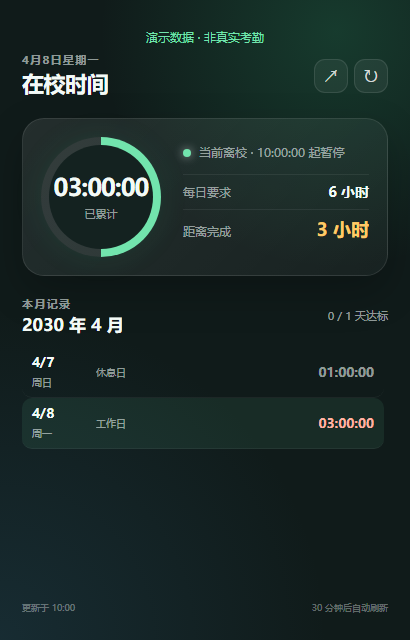
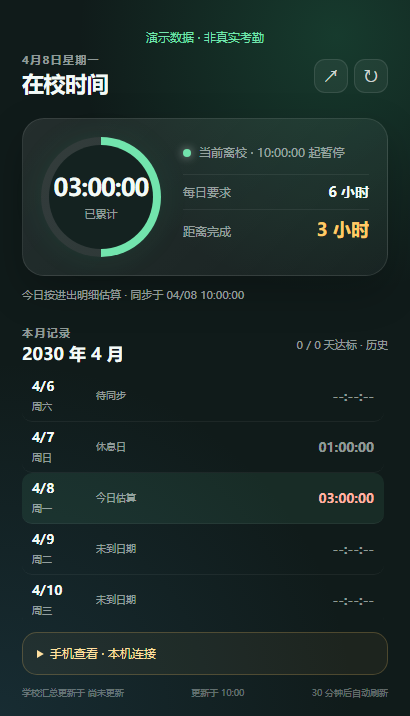
docs: clarify v1.2.0 extension and LAN installation
用下载表区分 Chrome 扩展与 Windows/macOS 伴随服务，将手机安装精简为四步。明确 manifest.json 所在目录、源码缺少运行时的原因，以及升级、换网络和防火墙排错步骤；更新虚构演示图，整理 CHANGELOG 并修正 WebKit 安装命令。

diff --git a/README.md b/README.md
@@ -6,58 +6,47 @@
 
 ![小组件演示，所有记录均为虚构数据](docs/demo.png)
 
-## 安装（无需编程环境）
+## 下载 1.2.0
 
-1. 下载版本对应的 `slai-attendance-widget-v版本号.zip`（公开版本见 [Releases](https://github.com/TianQijia/slai-attendance-widget/releases)）。
+在 [1.2.0 发布页](https://github.com/TianQijia/slai-attendance-widget/releases/tag/v1.2.0) 的 Assets 中选择下列文件：
+
+| 用途 | 下载文件 |
+| --- | --- |
+| 电脑 Chrome 小窗，所有用户都需要 | `slai-attendance-widget-v1.2.0.zip` |
+| 在手机查看，电脑是 Windows x64 时另加 | `slai-attendance-companion-v1.2.0-win-x64.zip` |
+| 在手机查看，电脑是 Apple Silicon Mac 时另加 | `slai-attendance-companion-v1.2.0-darwin-arm64.zip` |
+
+伴随服务包内置 Node.js，普通用户无需另装编程环境。`SHA256SUMS.txt` 用于校验下载文件；GitHub 自动生成的 Source code 包是源码，不是上表中的安装包。
+
+## 安装电脑扩展
+
+1. 下载上表中的 `slai-attendance-widget-v1.2.0.zip`。
 2. 解压到一个准备长期保留的文件夹，不要直接在压缩包里打开。
 3. 在 Chrome 地址栏输入 `chrome://extensions`，打开右上角“开发者模式”。
 4. 点击“加载已解压的扩展程序”，选择包含 `manifest.json` 的解压文件夹。
 5. 小窗出现后，如提示登录，点击“去登录”，使用**自己的学校账号**在学校页面登录。完成后会重新读取考勤。
 
+扩展 ZIP 解压后，`manifest.json` 就在解压文件夹的第一层。伴随服务包里的 `extension` 仅存放手机页面共用文件，不能导入 Chrome；选错时会提示“Manifest file is missing or unreadable”，请重新选择扩展 ZIP 的解压目录。
+
 关闭小窗后，点击 Chrome 工具栏的扩展菜单 → “SLAI 考勤小组件”即可重新打开。Chrome 启动时也会打开小窗。
 
-如果下载的是 GitHub 自动生成的 Source code 压缩包，请加载其中的 `extension` 文件夹。
+如果下载的是 GitHub 自动生成的 Source code 压缩包，请加载其中的 `extension` 文件夹。手机伴随服务请另下载上表中的安装包；源码里的 `companion/start.cmd` 不含配套运行时，不能直接双击启动。
 
-## 手机局域网查看（1.2.0）
+## 手机查看：四步连接
 
-手机与电脑连接同一可信 Wi-Fi。下载并解压对应的伴随服务 ZIP：macOS Apple Silicon 使用 `darwin-arm64`，Windows 64 位使用 `win-x64`；两种包均内置 Node.js 22.23.2，无需安装编程环境。扩展仍需按照上方步骤更新。
+手机与电脑需连接同一可信 Wi-Fi，电脑保持 Chrome 和伴随服务运行。1.2.0 提供局域网网页查看，不是安卓 APK；无需租服务器。
 
-1. 在解压目录的 `companion` 文件夹双击 `start.command`（Mac）或 `start.cmd`（Windows）。把软件放在长期保留的文件夹。
-2. 启动器打开本机连接信息页；把**本机配对码**粘贴到扩展小窗底部的“手机查看”，点击“启用并连接”，允许本机连接权限。
-3. 将信息页中的**手机查看链接**传到自己的手机并打开。链接包含独立查看令牌；本机配对码不要交给手机。展开页面底部“私人局域网查看”，可勾选“在此浏览器记住查看权限”，以后同一地址新开标签页也能查看。再次查看链接可运行 `connection-info` 工具。
-4. Windows 若阻止手机访问，把当前网络设为可信的“专用网络”；管理员运行 `allow-private-network.ps1`，仅放行本子网到内置 Node 的 TCP 32100。电脑若有多个局域网地址，启动器会要求选择手机所在网络。
+1. **下载并解压。** 先安装上面的扩展，再按电脑系统下载伴随服务 ZIP，解压到准备长期保留的文件夹。
+2. **启动电脑服务。** 打开其中的 `companion` 文件夹，Windows 双击 `start.cmd`，Mac 双击 `start.command`；连接信息页会自动打开。
+3. **配对电脑扩展。** 在扩展小窗底部展开“手机查看”，粘贴信息页中的“本机配对码”，点击“启用并连接”，允许本机连接权限。
+4. **手机打开链接。** 将信息页中的完整“手机查看链接”传到自己的手机浏览器并打开；可展开底部“私人局域网查看”，勾选“在此浏览器记住查看权限”。本机配对码仅用于电脑扩展。
 
-`stop` 停止服务；`enable-autostart` 设置下次登录后启动，`disable-autostart` 取消。自动启动不替你打开 Chrome。Mac 下载的启动脚本首次运行可能需要在系统设置中允许打开；不需要关闭系统安全保护。数据目录中 `connection.html` 可直接打开查看配对信息。
-
-### 网络检测（Mac 和 Windows）
-
-手机访问失败时，在电脑的 `companion` 文件夹双击 `diagnose.command`（Mac）或 `diagnose.cmd`（Windows）。**服务未启动时也能运行**，不需要安装 Node 或输入命令。检测会打开报告页，点击“复制脱敏报告”即可反馈；复制失败时可手动复制已选中的文本。换网络、重启服务或修正设置后，再运行一次检测获得新结果。
-
-- 共同检测：当前是否有私有局域网 IPv4、已选地址是否仍属于本机、本机查看接口、写入端口、电脑访问自己的局域网接口、扩展最近联系及今日完整快照更新时间。
-- Mac：读取应用防火墙开关、阻止所有入站设置及随包 Node 的应用规则。Windows：读取所选地址的公用／专用／域网络类型、防火墙状态，以及随包规则的程序路径、端口和范围是否匹配。查询受权限或系统限制时明确显示“未能确认”。
-- 所有检测均为只读，不改动网络类型、防火墙规则或学校同步，也不向服务上传测试考勤。单次接口探测最多等待 3 秒，系统查询有时间上限。
-- 电脑自测不能证明手机到电脑可达，不能单凭超时判断校园网开启了设备隔离。手机能打开查看页时，在底部展开“连接与排错”中的“网络检测”并点击“开始网络检测”，可复制这台浏览器的连接结果；完全打不开时先反馈电脑报告和浏览器显示的现象，可用自己的可信热点做对照。
-- 到 Windows 或换网络后，使用该电脑新生成的配对码和查看链接。校园网是公用或域网络时，随包的专用网络规则不会生效；按管理员允许的方式配置，不需要关闭整个防火墙。
-
-检测报告保存在用户数据目录的 `network-diagnostic.html` 和 `network-diagnostic.local.json`，包含固定检测代码、阶段、HTTP 状态、等待上限及时间差，不包含密钥、IP、网络名称、用户名、文件路径、原始异常或考勤明细。报告是一次检测的快照，不会后台探测校园设备。
-
-- 手机顶部“刷新学校数据”会通知电脑 Chrome 扩展，立即重新采集学校汇总与完整明细，并显示等待接收、正在抓取、完成或具体错误。电脑需运行新版扩展并启用手机查看；升级后在 `chrome://extensions` 重新加载扩展。已有采集进行时共用同一次采集，连续请求合并，新的手机请求至少间隔 10 秒。
-- 手机平时每 15 秒读取电脑缓存；手动刷新进行中每秒读取进度，完成后恢复原间隔。自动查看不会触发学校采集，学校自动同步仍为 30 分钟；扩展每分钟向本机推送缓存，并通过本机连接即时接收手动刷新请求。服务重启不会自动重放旧请求。
-- “私人局域网查看”和“连接与排错”位于考勤下方，默认折叠。前者用于恢复链接、记住权限及退出，后者提供诊断、网络检测和“重新连接查看服务”。重新连接只读取电脑缓存。缺少权限时，顶部保留一个前往连接设置的简短提示。
-- 超过 150 秒没有扩展联系、本次学校完整同步超过 35 分钟、登录失效或服务不可达时，冻结到上次完整同步时刻。服务重启保留缓存，但收到扩展新联系前显示未联系；接收旧缓存不会改变学校更新时间。
-- 查看端为所选局域网 IPv4 与 `127.0.0.1` 的 32100；写入端只有 `127.0.0.1:32101`。不监听 `0.0.0.0`，不开放公网。HTTP 不提供传输加密，仅适用于可信 Wi-Fi；Tailscale／HTTPS 和离线 PWA 不属于本轮交付。
-- 查看链接中的令牌读取后从地址栏移除。默认只在当前标签页保存；勾选“记住查看权限”且服务验证成功后，才在该地址的浏览器本地存储中保存查看令牌。可用“退出并清除保存的权限”退出本页并清除本页会话和该地址的已记住权限；其他已经打开的标签页需一并关闭。普通 HTTP 不保证后台离线页面可用。
-- 出现 `VIEW_TOKEN_MISSING` 时，本页没有查看权限，输入 IP 地址无法补回令牌。展开底部“私人局域网查看”，粘贴电脑连接信息中的完整“手机查看链接”，或在浏览器直接重新打开该链接。`VIEW_TOKEN_REJECTED` 表示服务已响应 HTTP 401，请重新取得电脑提供的链接。存储受浏览器限制时，可在当前页使用完整链接连接，并查看具体存储诊断。
-- HTTP 手机页面可能不提供自动剪贴板接口。点击复制后若弹出“手动复制本次报告”，请长按文本框，选择“全选／复制”；电脑可按 Ctrl+C 或 ⌘C。文本框保留点击时的脱敏报告，不受后台刷新影响。只有自动复制确实成功才显示“已复制”。
-- IP 改变后重启服务并使用新查看链接。断连不推断为学校风控、电脑关闭或网络故障，只报告实际可确认的状态。
-
-本机配置及缓存位置：Mac 为 `~/Library/Application Support/SLAIAttendance`，Windows 为 `%LOCALAPPDATA%/SLAIAttendance`。卸载时先取消自动启动、停止服务，再删除解压文件夹及该数据目录；Windows 防火墙规则名为 `SLAI-Attendance-Viewer`，可在系统防火墙中删除。删除配置会生成新令牌，需要重新配对。
-
-开发运行使用 `npm run start:companion`；可用 `node companion/cli.js start --host 私有IPv4` 明确指定本机地址。连接信息包含令牌，不要上传到 Issue。
+Windows 首次可能询问是否允许内置 Node.js 联网，请按自己信任的网络范围确认。下载目录、网络或 IP 改变后的处理，以及打不开、重连、自动启动和卸载步骤，见[手机查看与排错](docs/mobile.md)。
 
 ## 如何计算
 
 - 工作日目标为 6 小时；工作日、节假日分类采用学校页面显示。
+- 月度列表补齐该月所有日期：过去缺少学校汇总的日期标为“待同步”，未来日期标为“未到日期”，时长显示占位符，均不计入历史达标统计。月初尚未同步时保留上月记录并明确提示，本月首次同步后切换月份。
 - 只使用名称为“闸机-…”或“闸机_…”的学校道闸，忽略宿舍道闸。
 - 学校第二天才显示每日累计：昨天及更早直接采用学校汇总，今天只用完整进出明细自行计算。连续进门取最晚一次、连续出门取最早一次，再累加有效在校区间；同秒异向保留读取顺序。最后为进门时，每秒本地续算。
 - 中途离校再进校，只累计在校区间。例如在校 2 小时、离校 1 小时、再在校 1 小时，累计为 3 小时。
@@ -68,7 +57,7 @@
 
 ## 更新与常见问题
 
-**如何更新？** 关闭小窗，将新版 ZIP 解压覆盖原扩展文件夹，在 `chrome://extensions` 点击该扩展的重新加载按钮，再打开小窗。不要同时加载两个副本。
+**如何更新？** 关闭小窗，将新版扩展 ZIP 解压覆盖原扩展文件夹，在 `chrome://extensions` 点击该扩展的“重新加载”，确认版本为 **1.2.0**。若换到新文件夹加载，先停用旧副本，避免同时同步。使用手机查看时，也需[更新伴随服务](docs/mobile.md#更新与换网络)。
 
 **为什么时长不增加？** 若最新学校道闸记录为出门，计时应暂停。先核对学校最新进出记录和上次刷新时间。
 
@@ -97,8 +86,17 @@
 ```sh
 npm ci
 npx playwright install chromium
-# macOS 上还需 WebKit，用于手机查看页回归测试
-# npx playwright install webkit
+```
+
+macOS 还需安装 WebKit，执行：
+
+```sh
+npx playwright install webkit
+```
+
+然后执行验证与构建：
+
+```sh
 npm test
 npm run audit:release
 npm run build
@@ -115,7 +113,7 @@ npm run test:install
 
 发布前还需人工检查演示图片及扫描待发布内容；`.gitignore` 不会清除已经写在源码中的个人信息。
 
-项目的[错误诊断准则](AGENTS.md)要求新增错误保留直接原因和现场信息，并验证它们经过缓存清洗、界面显示和复制后仍可用于排查。
+项目的[错误诊断准则](https://github.com/TianQijia/slai-attendance-widget/blob/main/AGENTS.md)要求新增错误保留直接原因和现场信息，并验证它们经过缓存清洗、界面显示和复制后仍可用于排查。
 
 ## 许可
 

diff --git a/docs/mobile.md b/docs/mobile.md
@@ -1,0 +1,77 @@
+# 手机查看与排错
+
+[返回安装说明](../README.md#手机查看四步连接)
+
+手机显示由电脑 Chrome 扩展同步的考勤；电脑需要持续运行 Chrome 和伴随服务。支持 Windows x64 与 Apple Silicon Mac，两个包都内置 Node.js 22.23.2。1.2.0 只支持同一可信局域网中的 HTTP 查看，不含 Tailscale、HTTPS、离线 PWA 或 APK。
+
+**扩展提示 Manifest file is missing or unreadable：** Chrome 应加载 `slai-attendance-widget-v1.2.0.zip` 的解压目录，第一层应有 `manifest.json`。伴随服务包里的 `extension` 只是手机页面共用文件，不能加载为扩展。使用源码时才选择源码根目录下的完整 `extension` 文件夹。
+
+## 更新与换网络
+
+**从旧版本或测试包更新：**
+
+1. 关闭扩展小窗，在旧伴随服务的 `companion` 文件夹运行 `stop.cmd`（Windows）或 `stop.command`（Mac）。只使用电脑扩展的用户可跳过服务步骤。
+2. 将新版扩展 ZIP 解压覆盖原扩展目录，在 `chrome://extensions` 点击“重新加载”，确认版本为 1.2.0。
+3. 将新版伴随服务 ZIP 解压到原来的长期保留目录，覆盖旧程序文件；不要删除用户数据目录。运行新版 `start` 启动器，原配对码与查看令牌保留。
+4. 手机重新打开电脑给出的查看链接。若变更了程序保存目录，重新设置自动启动，并检查新路径的防火墙规则。
+
+**切换 Wi-Fi／网卡或 IP 改变：** 重新运行 `start`。它会核对当前服务实例，切换到所选地址并验证接口，再生成新链接；把新链接传到手机即可。运行 `connection-info` 时若看到 `LAN_RESTART_REQUIRED`，先运行 `start`。多个局域网地址需要选择手机所在网络；未找到可用私有 IPv4 时只能在电脑本机查看。
+
+## Windows 防火墙弹窗
+
+伴随服务使用随包的 `runtime/node.exe`，因此首次联网弹窗可能显示 Node.js。Windows 按程序完整路径匹配应用规则：换一个解压目录，或在临时目录运行安装测试，可能再次询问；之前的允许仍对应原路径。将正式程序放在固定文件夹，并在原位置更新，可避免因路径变化而重复配置。[Windows 防火墙规则说明](https://learn.microsoft.com/windows/security/operating-system-security/network-security/windows-firewall/rules)
+
+手机打不开时先运行 `diagnose.cmd`。若自己的可信网络已设为“专用网络”，但仍缺少规则，可在管理员 PowerShell 中进入伴随服务解压目录，运行：
+
+```powershell
+.\companion\allow-private-network.ps1
+```
+
+该脚本仅为当前目录的内置 Node 放行专用网络、本子网到 TCP 32100。若报告权限不足、脚本执行受限或规则已存在，按具体提示处理，或交由网络管理员配置。学校的公用／域网络不会因这条专用网络规则而开放；无需关闭整个防火墙。
+
+## 启动、停止和连接信息
+
+以下工具都位于伴随服务包的 `companion` 文件夹。Windows 双击同名 `.cmd`，Mac 双击同名 `.command`。
+
+| 工具 | 用途 |
+| --- | --- |
+| `start` | 启动服务；换网络后重新绑定并打开已验证的连接信息 |
+| `connection-info` | 再次打开运行中服务的配对码与手机链接 |
+| `stop` | 停止当前服务 |
+| `diagnose` | 生成脱敏网络报告，未启动服务时也能检测 |
+| `enable-autostart` | 下次登录电脑后启动服务 |
+| `disable-autostart` | 取消自动启动 |
+
+自动启动不替你打开 Chrome。Mac 下载的启动脚本首次运行可能需要在系统设置中允许打开。数据目录中的 `connection.html` 是最近一次连接信息快照；换网络后请先运行 `start` 更新。
+
+**双击 start 没有启动，或提示找不到路径：** 确认打开的是伴随服务安装包的解压目录，不是 Source code 中的源码。解压后应同时有 `companion` 和 `runtime` 文件夹；Windows 的 `runtime` 中应有 `node.exe`。不要把单个 `start.cmd` 移到别处或直接在 ZIP 内运行。开发者从源码运行时，需先安装依赖，再执行 `npm run start:companion`。
+
+## 网络检测（Mac 和 Windows）
+
+手机访问失败时，在电脑的 `companion` 文件夹双击 `diagnose.command`（Mac）或 `diagnose.cmd`（Windows）。**服务未启动时也能运行**，不需要安装 Node 或输入命令。检测会打开报告页，点击“复制脱敏报告”即可反馈；复制失败时可手动复制已选中的文本。换网络、重启服务或修正设置后，再运行一次检测获得新结果。
+
+- 共同检测：当前是否有私有局域网 IPv4、已选地址是否仍属于本机、本机查看接口、写入端口、电脑访问自己的局域网接口、扩展最近联系及今日完整快照更新时间。
+- Mac：读取应用防火墙开关、阻止所有入站设置及随包 Node 的应用规则。Windows：读取所选地址的公用／专用／域网络类型、防火墙状态，以及随包规则的程序路径、端口和范围是否匹配。查询受权限或系统限制时明确显示“未能确认”。
+- 所有检测均为只读，不改动网络类型、防火墙规则或学校同步，也不向服务上传测试考勤。单次接口探测最多等待 3 秒，系统查询有时间上限。
+- 电脑自测不能证明手机到电脑可达，不能单凭超时判断校园网开启了设备隔离。手机能打开查看页时，在底部展开“连接与排错”中的“网络检测”并点击“开始网络检测”，可复制这台浏览器的连接结果；完全打不开时先反馈电脑报告和浏览器显示的现象，可用自己的可信热点做对照。
+- 换电脑后，使用新电脑生成的配对码和查看链接；同一电脑只换网络时配对码不变，重新运行 `start` 获取新链接。校园网是公用或域网络时，随包的专用网络规则不会生效；按管理员允许的方式配置。
+
+检测报告保存在用户数据目录的 `network-diagnostic.html` 和 `network-diagnostic.local.json`，包含固定检测代码、阶段、HTTP 状态、等待上限及时间差，不包含密钥、IP、网络名称、用户名、文件路径、原始异常或考勤明细。报告是一次检测的快照，不会后台探测校园设备。
+
+## 刷新、权限和连接细节
+
+- 手机顶部“刷新学校数据”会通知电脑 Chrome 扩展，立即重新采集学校汇总与完整明细，并显示等待接收、正在抓取、完成或具体错误。电脑需运行新版扩展并启用手机查看；升级后在 `chrome://extensions` 重新加载扩展。已有采集进行时共用同一次采集，连续请求合并，新的手机请求至少间隔 10 秒。
+- 手机平时每 15 秒读取电脑缓存；手动刷新进行中每秒读取进度，完成后恢复原间隔。自动查看不会触发学校采集，学校自动同步仍为 30 分钟；扩展每分钟向本机推送缓存，并通过本机连接即时接收手动刷新请求。服务重启不会自动重放旧请求。
+- “私人局域网查看”和“连接与排错”位于考勤下方，默认折叠。前者用于恢复链接、记住权限及退出，后者提供诊断、网络检测和“重新连接查看服务”。重新连接只读取电脑缓存。缺少权限时，顶部保留一个前往连接设置的简短提示。
+- 超过 150 秒没有扩展联系、本次学校完整同步超过 35 分钟、登录失效或服务不可达时，冻结到上次完整同步时刻。服务重启保留缓存，但收到扩展新联系前显示未联系；接收旧缓存不会改变学校更新时间。
+- 查看端为所选局域网 IPv4 与 `127.0.0.1` 的 32100；写入端只有 `127.0.0.1:32101`。不监听 `0.0.0.0`，不开放公网。HTTP 不提供传输加密，仅适用于可信 Wi-Fi；Tailscale／HTTPS 和离线 PWA 不属于本轮交付。
+- 查看链接中的令牌读取后从地址栏移除。默认只在当前标签页保存；勾选“记住查看权限”且服务验证成功后，才在该地址的浏览器本地存储中保存查看令牌。可用“退出并清除保存的权限”退出本页并清除本页会话和该地址的已记住权限；其他已经打开的标签页需一并关闭。普通 HTTP 不保证后台离线页面可用。
+- 出现 `VIEW_TOKEN_MISSING` 时，本页没有查看权限，输入 IP 地址无法补回令牌。展开底部“私人局域网查看”，粘贴电脑连接信息中的完整“手机查看链接”，或在浏览器直接重新打开该链接。`VIEW_TOKEN_REJECTED` 表示服务已响应 HTTP 401，请重新取得电脑提供的链接。存储受浏览器限制时，可在当前页使用完整链接连接，并查看具体存储诊断。
+- HTTP 手机页面可能不提供自动剪贴板接口。点击复制后若弹出“手动复制本次报告”，请长按文本框，选择“全选／复制”；电脑可按 Ctrl+C 或 ⌘C。文本框保留点击时的脱敏报告，不受后台刷新影响。只有自动复制确实成功才显示“已复制”。
+- 切换 Wi-Fi／网卡或 IP 改变后，重新运行 `start`，服务会切换到所选地址，验证可访问后生成新查看链接；把新链接传到手机即可，原配对码不变。`connection-info` 只为已核对的运行中服务生成链接，发现地址变化会提示先运行 `start`。断连只报告实际可确认的状态。
+
+## 数据目录与卸载
+
+本机配置及缓存位置：Mac 为 `~/Library/Application Support/SLAIAttendance`，Windows 为 `%LOCALAPPDATA%/SLAIAttendance`。卸载时先取消自动启动、停止服务，再删除解压文件夹及该数据目录；Windows 防火墙规则名为 `SLAI-Attendance-Viewer`，可在系统防火墙中删除。删除配置会生成新令牌，需要重新配对。
+
+开发运行使用 `npm run start:companion`；可用 `node companion/cli.js start --host 私有IPv4` 明确指定本机地址。连接信息包含令牌，不要上传到 Issue。

diff --git a/CHANGELOG.md b/CHANGELOG.md
@@ -1,18 +1,17 @@
-## 1.2.0
-
-- 修复手机新标签页缺少查看权限时无恢复入口的问题，新增完整查看链接输入、可选记住权限和退出；区分本页缺少权限、服务拒绝令牌及浏览器存储限制。
-- 手机顶部“刷新学校数据”通过本机服务即时通知 Chrome 扩展采集，显示接收、执行及结果；与已有采集合并，失败保留具体原因。自动同步仍为 30 分钟，服务重启不重放旧请求。
-- “私人局域网查看”和“连接与排错”移到考勤区底部并默认折叠，权限恢复、网络检测与报告复制仍可展开使用。
-- 修复复制受限时选中文本被刷新清除的问题，手机和扩展共用原生文本框保存手动复制快照，支持长按复制。
-- 增加 Mac／Windows 网络检测启动器和手机查看页检测入口；读取系统防火墙、所选地址、服务接口与扩展联系状态，输出可复制的脱敏报告，明确标注跨设备访问仍需实测。
-
-- 修复连续同向刷卡的最小闭包计算；计时与状态时间统一使用有效事件。
-- 学校次日才提供累计，历史直接采用学校汇总，今天只计算完整进出明细；支持月初空汇总及上海时区。
-- schema v4 保存完整快照；读取失败、登录失效及过期时冻结，不再用今日学校汇总抬高估算。
-- 增加可选局域网手机查看与手动刷新、独立令牌、本机桥接重连与安全诊断；手机不能写入考勤。
-- 提供内置 Node 的 macOS arm64／Windows x64 包及登录后启动工具，新增最终 ZIP 的双平台自动验证。
-
 # 更新记录
+
+## 1.2.0 · 2026-09-12
+
+- 增加局域网手机网页查看与“刷新学校数据”，提供内置 Node 的 Windows x64／macOS arm64 伴随服务包，无需租服务器或另装 Node。
+- 修复连续同向刷卡的最小闭包计算：连续进门取最晚一次，连续出门取最早一次，计时与状态使用相同有效事件。今天按完整明细估算，历史使用学校汇总。
+- 保存今日完整快照；明细失败、登录失效及数据过期时暂停估算。保留直接原因和可复制的脱敏诊断，成功恢复后清除旧错误。
+- 修复切换 Wi-Fi／网卡后服务仍监听旧地址、却生成新地址链接的问题；start 核对实例并重新绑定，验证地址后生成链接，保留原配对凭据。
+- 修复月初旧月份混入今日日期的问题；补齐整月日期，区分待同步与未来占位，缺失日期不当作零时长或计入历史达标统计。
+- 手机支持完整链接恢复、可选记住查看权限及退出；连接设置与排错工具默认折叠，自动复制受限时可长按手动复制。
+- 增加 Mac／Windows 网络检测启动器和手机检测入口，报告固定错误代码与现场信息，不包含账号、令牌、IP 或原始考勤。
+- 简化 README 安装流程，新增手机查看与排错文档，更新虚构数据演示图；修正 macOS WebKit 安装命令。
+- 源码启动器缺少内置运行时时显示 `RUNTIME_MISSING`、下载与完整解压步骤，以及开发启动命令，避免误把源码当安装包使用。
+- 保持学校每 30 分钟同步、串行翻页、1.5 秒间隔与 50 页上限；增加网络切换、日历边界和最终 ZIP 的双平台回归验证。
 
 ## 1.1.2
 
